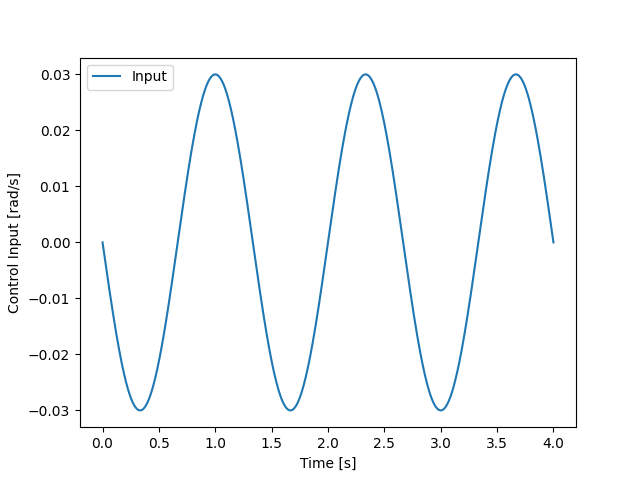
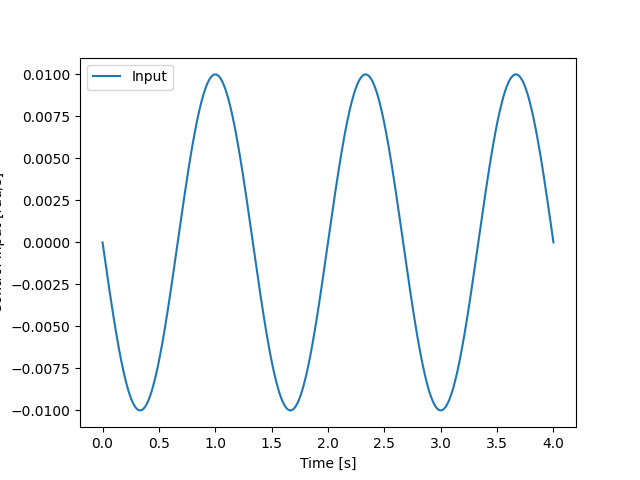
Added images for d_dudt

diff --git a/FoVCalc copy.py b/FoVCalc copy.py
@@ -46,9 +46,36 @@ def Analytical(dt,z,xVal,yVal,thetaVals,uVals):
     Eval_dAzdTheta = dAz_dTheta(xVal,yVal,thetaVals,uVals)
     Eval_dEledU = dEle_dU(xVal,yVal,thetaVals,uVals)
     Eval_dEledTheta = dEle_dTheta(xVal,yVal,thetaVals,uVals)
-  
-
     return Eval_dAzdU, Eval_dAzdTheta, Eval_dEledU,Eval_dEledTheta
+
+def Analytical(deltaT,z,xVal,yVal,thetaVals,uVals):
+    x = sy.Symbol("x")
+    y = sy.Symbol("y")
+    # u = sy.Symbol("u")
+    # dt = sy.Symbol("dt")
+    dist = sy.Symbol("dist")
+    theta = sy.Symbol("theta")
+    Ry = np.array([[sy.cos(theta), 0, sy.sin(theta)],
+                   [0, 1, 0],
+                   [-sy.sin(theta), 0, sy.cos(theta)]])
+    PNew = Ry @ np.array([x,y,z]) - [dist,0,0]
+    Azimuth = sy.atan(PNew[1] / PNew[0])
+    modulus = sy.sqrt(PNew[0] **2 + PNew[1] **2 + PNew[2] **2)
+    Elevation = sy.acos(PNew[2] / modulus)
+    dAz_dU = sy.lambdify((x,y,theta,dist),Azimuth.diff(dist))
+    dEle_dU = sy.lambdify((x,y,theta,dist),Elevation.diff(dist))
+    dAz_dTheta = sy.lambdify((x,y,theta,dist),Azimuth.diff(theta))
+    dEle_dTheta = sy.lambdify((x,y,theta,dist),Elevation.diff(theta))
+
+
+    Eval_dAzdU = dAz_dU(xVal,yVal,thetaVals,uVals*deltaT)
+    Eval_dAzdTheta = dAz_dTheta(xVal,yVal,thetaVals,uVals*deltaT)
+    Eval_dEledU = dEle_dU(xVal,yVal,thetaVals,uVals*deltaT)
+    Eval_dEledTheta = dEle_dTheta(xVal,yVal,thetaVals,uVals*deltaT)
+    return Eval_dAzdU, Eval_dAzdTheta, Eval_dEledU,Eval_dEledTheta
+
+
+
 def FovComparison(dt,xVals,yVals,behaviour,nPoints,t):
     baseDAzDU, baseDAZDTheta, baseDEleDU, baseDEleDTheta =  np.zeros_like(t),np.zeros_like(t),np.zeros_like(t),np.zeros_like(t)
     for i,xVal in enumerate(xVals):
@@ -174,7 +201,7 @@ points_world = create_ground_points(xRange, yRange, zHeight, nPoints)
 
 t = np.linspace(0,4,600)
 dt = t[1] - t[0]
-input = -3/100 * np.sin((1/2 * 3)*np.pi*t)
+input = -1/100 * np.sin((1/2 * 3)*np.pi*t)
 # input = -1/100 * np.sin((1/2 * 10)*np.pi*t)
 # input = -1/100 * np.ones_like(t)
 # input[t<0.5] = 0
@@ -217,7 +244,7 @@ testY = 2
 testTheta = np.radians(15)
 testU = 2
 dtTest =0.1
-dAzdU, dAzdTheta, dEledU,dEledTheta = Analytical(dtTest,-5,testX,testY,testTheta,testU)
+dAzdU, dAzdTheta, dEledU,dEledTheta = Analytical(deltaT=dt,z=-5,xVal=testX,yVal=testY,thetaVals=testTheta,uVals=testU)
 
 
 
@@ -296,10 +323,10 @@ ax_dAZDU.legend()
 ax_dAZDTheta.legend()   
 ax_dEleDU.legend()
 ax_dEleDTheta.legend()
-fig_dAzDU.savefig("Visuals/dAzDU.png")
+fig_dAzDU.savefig("Visuals/dAzDUdt.png")
 fig_dAzDTheta.savefig("Visuals/dAzDTheta.png")
 fig_dEleDTheta.savefig("Visuals/dEleDTheta.png")
-fig_dEleDU.savefig("Visuals/dEleDU.png")
+fig_dEleDU.savefig("Visuals/dEleDUdt.png")
 
 allMeans_dAzDU=[0]
 allMeans_dAzDTheta=[0]
